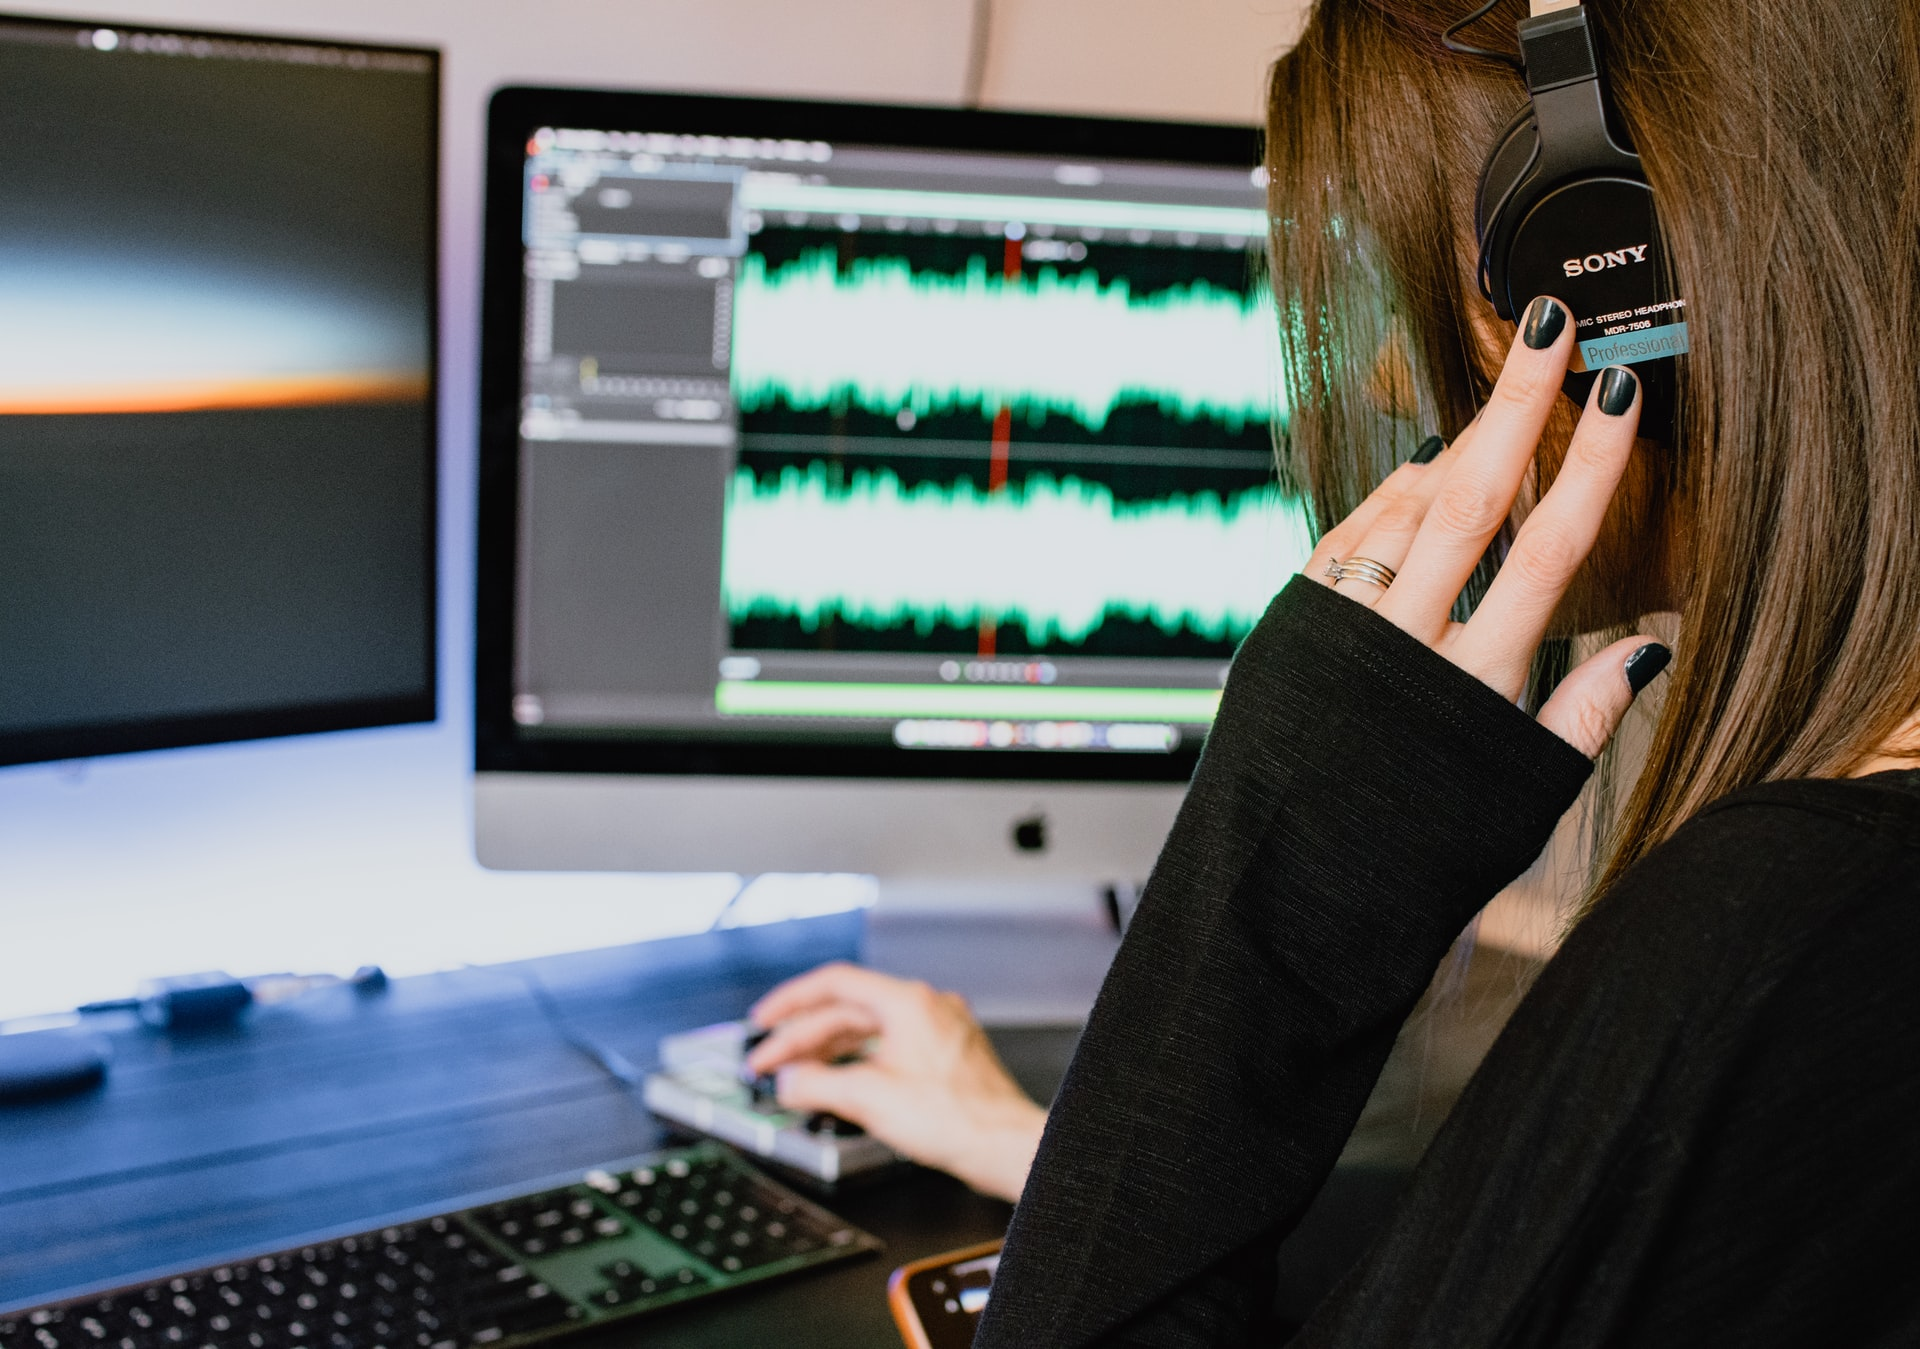
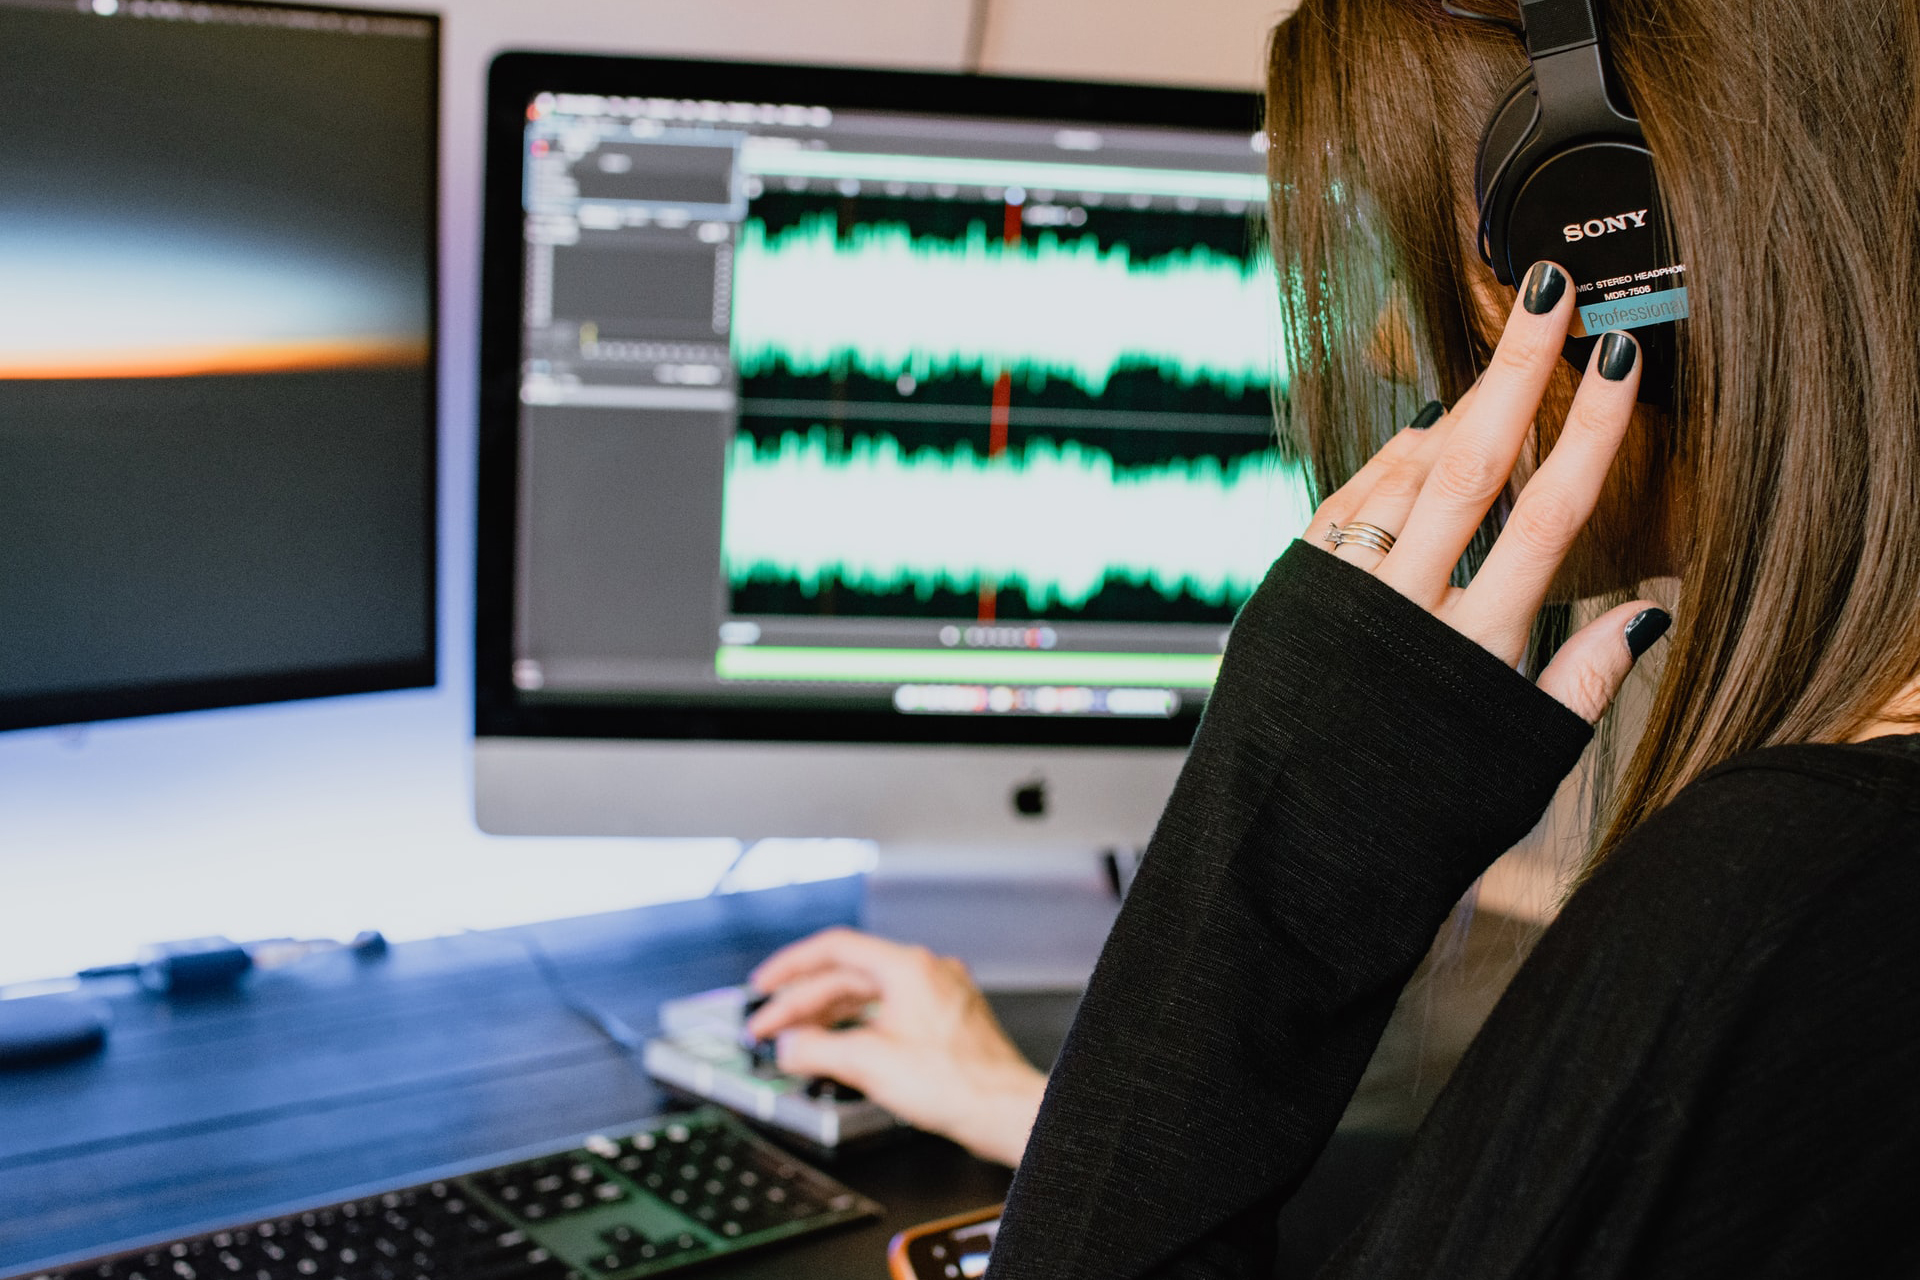
aanpassingen kleur

diff --git a/workshops.html b/workshops.html
@@ -5,7 +5,7 @@
   <meta charset="UTF-8">
   <meta http-equiv="X-UA-Compatible" content="IE=edge">
   <meta name="viewport" content="width=device-width, initial-scale=1.0">
-  <title>Zeg het met kleur | Workshops</title>
+  <title>Zeg het met Kleur - workshops voor secundaire scholen door Arteveldehogeschool 2022</title>
   <link rel="stylesheet" href="assets/css/main.css">
   <link rel="stylesheet" href="https://cdnjs.cloudflare.com/ajax/libs/font-awesome/6.1.1/css/all.min.css" integrity="sha512-KfkfwYDsLkIlwQp6LFnl8zNdLGxu9YAA1QvwINks4PhcElQSvqcyVLLD9aMhXd13uQjoXtEKNosOWaZqXgel0g==" crossorigin="anonymous" referrerpolicy="no-referrer" />
 </head>
@@ -16,7 +16,7 @@
     <div class="header-container">
 
       <div class="logo-block">
-        <a href="https://www.arteveldehogeschool.be/">
+        <a href="/">
           <img src="assets/images/logos/logo_artevelde.png" alt="Arteveldehogeschool" class="logo-artevelde">
         </a>
       </div>
@@ -250,7 +250,7 @@
 
       <div class="workshop color all">
         <a href="./workshops/onderneming.html">
-          <img src="assets/images/workshops-overview/onderneming.jpg" alt="Checking colors" class="crosp">
+          <img src="assets/images/workshops-overview/onderneming.jpg" alt="Checking colors" class="">
         </a>
         <div class="category">Kleur</div>
         <h2 class="title">Zeg het met kleur: Zet je onderneming in kleur</h2>

diff --git a/workshops/3D.html b/workshops/3D.html
@@ -1,10 +1,10 @@
 <!DOCTYPE html>
-<html lang="en">
+<html lang="nl">
 <head>
   <meta charset="UTF-8">
   <meta http-equiv="X-UA-Compatible" content="IE=edge">
   <meta name="viewport" content="width=device-width, initial-scale=1.0">
-  <title>Zeg het met 3D</title>
+  <title>Zeg het met 3D - Zeg het met Kleur - workshops voor secundaire scholen door Arteveldehogeschool 2022</title>
   
   <link rel="stylesheet" href="../assets/css/main.css">
   <link rel="stylesheet" href="https://cdnjs.cloudflare.com/ajax/libs/font-awesome/6.1.1/css/all.min.css" integrity="sha512-KfkfwYDsLkIlwQp6LFnl8zNdLGxu9YAA1QvwINks4PhcElQSvqcyVLLD9aMhXd13uQjoXtEKNosOWaZqXgel0g==" crossorigin="anonymous" referrerpolicy="no-referrer" />

diff --git a/workshops/kleur.html b/workshops/kleur.html
@@ -1,10 +1,10 @@
 <!DOCTYPE html>
-<html lang="en">
+<html lang="nl">
 <head>
   <meta charset="UTF-8">
   <meta http-equiv="X-UA-Compatible" content="IE=edge">
   <meta name="viewport" content="width=device-width, initial-scale=1.0">
-  <title>Zeg het met Kleur</title>
+  <title>Zeg het met Kleur - workshops voor secundaire scholen door Arteveldehogeschool 2022</title>
   <link rel="stylesheet" href="../assets/css/main.css">
   <link rel="stylesheet" href="https://cdnjs.cloudflare.com/ajax/libs/font-awesome/6.1.1/css/all.min.css" integrity="sha512-KfkfwYDsLkIlwQp6LFnl8zNdLGxu9YAA1QvwINks4PhcElQSvqcyVLLD9aMhXd13uQjoXtEKNosOWaZqXgel0g==" crossorigin="anonymous" referrerpolicy="no-referrer" />
 </head>

diff --git a/workshops/print.html b/workshops/print.html
@@ -1,5 +1,5 @@
 <!DOCTYPE html>
-<html lang="en">
+<html lang="nl">
 <head>
   <meta charset="UTF-8">
   <meta http-equiv="X-UA-Compatible" content="IE=edge">
@@ -48,7 +48,7 @@
           </div>
           <div class="bottom">
             <img src="../assets/images/workshop-details/print/print-small1.jpg" alt="Inkt op printer" class="img-small1">
-            <img src="../assets/images/workshop-details/print/print-small2.png" alt="T-shirt bedrukken" class="img-small2">
+            <img src="../assets/images/workshop-details/print/print-small2.jpg" alt="T-shirt bedrukken" class="img-small2">
           </div>
           <div class="sponsor">
             <p>Mede mogelijk gemaakt door</p>

diff --git a/assets/css/main.css b/assets/css/main.css
@@ -1105,7 +1105,7 @@ main.overview-page .workshops-container .workshop.hide {
 
 main.overview-page .workshops-container .workshop img {
   max-width: 100%;
-  height: 42.5%;
+  /*height: 42.5%;*/
 }
 
 main.overview-page .workshops-container .workshop .category {

diff --git a/assets/scss/pages/_workshops_overview.scss b/assets/scss/pages/_workshops_overview.scss
@@ -60,7 +60,7 @@ main.overview-page {
       
       img {
         max-width: 100%;
-        height: 42.5%;
+        /*height: 42.5%;*/
       }
 
       .category {

diff --git a/workshops/beeld.html b/workshops/beeld.html
@@ -1,5 +1,5 @@
 <!DOCTYPE html>
-<html lang="en">
+<html lang="nl">
 <head>
   <meta charset="UTF-8">
   <meta http-equiv="X-UA-Compatible" content="IE=edge">

diff --git a/workshops/creative-programming.html b/workshops/creative-programming.html
@@ -1,5 +1,5 @@
 <!DOCTYPE html>
-<html lang="en">
+<html lang="nl">
 <head>
   <meta charset="UTF-8">
   <meta http-equiv="X-UA-Compatible" content="IE=edge">

diff --git a/workshops/deepfake.html b/workshops/deepfake.html
@@ -1,5 +1,5 @@
 <!DOCTYPE html>
-<html lang="en">
+<html lang="nl">
 <head>
   <meta charset="UTF-8">
   <meta http-equiv="X-UA-Compatible" content="IE=edge">

diff --git a/workshops/extra.html b/workshops/extra.html
@@ -1,5 +1,5 @@
 <!DOCTYPE html>
-<html lang="en">
+<html lang="nl">
 <head>
   <meta charset="UTF-8">
   <meta http-equiv="X-UA-Compatible" content="IE=edge">

diff --git a/workshops/geluid.html b/workshops/geluid.html
@@ -1,5 +1,5 @@
 <!DOCTYPE html>
-<html lang="en">
+<html lang="nl">
 <head>
   <meta charset="UTF-8">
   <meta http-equiv="X-UA-Compatible" content="IE=edge">

diff --git a/workshops/onderneming.html b/workshops/onderneming.html
@@ -1,5 +1,5 @@
 <!DOCTYPE html>
-<html lang="en">
+<html lang="nl">
 <head>
   <meta charset="UTF-8">
   <meta http-equiv="X-UA-Compatible" content="IE=edge">
